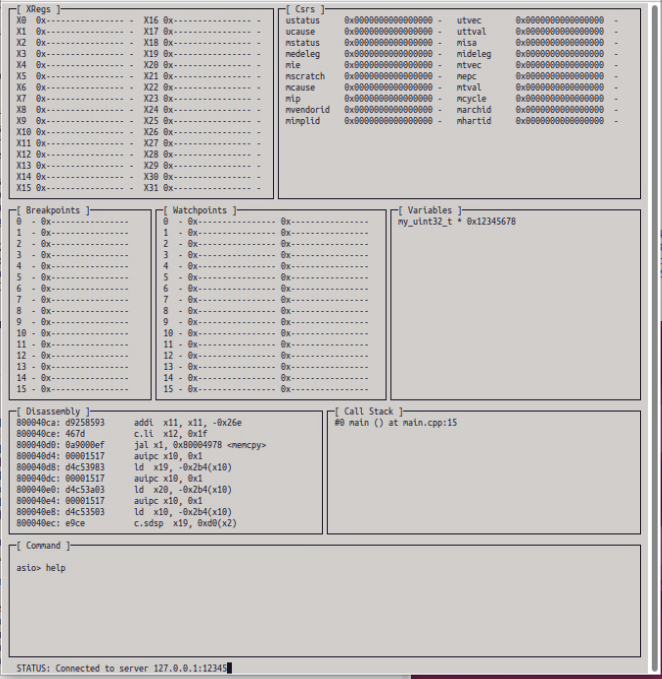
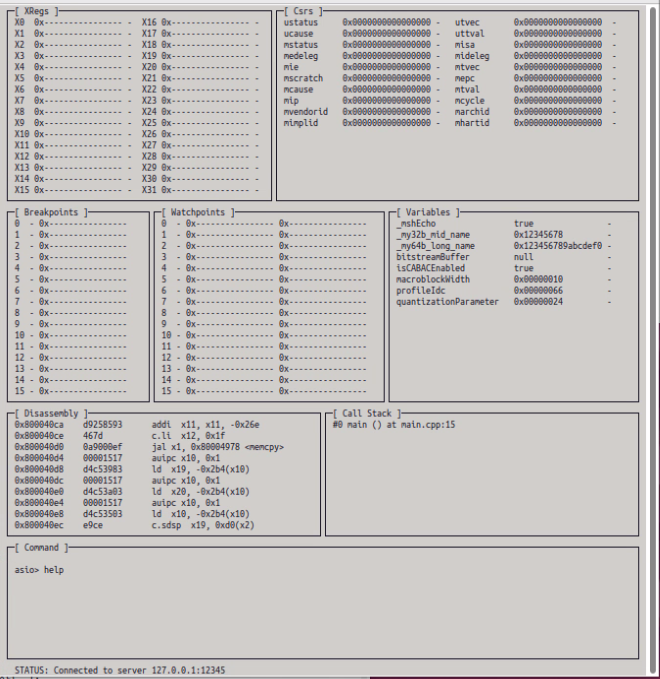
variables and disassembly windows structure

Changed region(s): [[0.0, 0.0, 1.0, 1.0]]

diff --git a/ncurses/src/content.cpp b/ncurses/src/content.cpp
@@ -1,5 +1,10 @@
+// -------------------------------------------------------------------------
+//  This file is part of jnutils, made public 2023, (c) 2023-2024 Jeff Nye.
+//  See LICENSE in the root directory.
+// -------------------------------------------------------------------------
 #include "jndbg.h"
 #include <iostream>
+#include <iomanip>
 
 using namespace std;
 // ------------------------------------------------------------------------
@@ -76,60 +81,20 @@ void Jndbg::drawWatchpointContent() {
 }
 
 // ------------------------------------------------------------------------
-// ------------------------------------------------------------------------
 void Jndbg::drawVariablesContent() {
+  if(is_init) {
     wclear(vars_win);
     drawBorders(vars_win, "Variables");
-    mvwprintw(vars_win, 1, 2, "my_uint32_t * 0x12345678");
-    // Add more variables...
-    wrefresh(vars_win);
-}
+  }
 
-const vector<string> Jndbg::example_disasm = {
-"800040ca: d9258593      addi  x11, x11, -0x26e",
-"800040ce: 467d          c.li  x12, 0x1f",
-"800040d0: 0a9000ef      jal x1, 0x80004978 <memcpy>",
-"800040d4: 00001517      auipc x10, 0x1",
-"800040d8: d4c53983      ld  x19, -0x2b4(x10)",
-"800040dc: 00001517      auipc x10, 0x1",
-"800040e0: d4c53a03      ld  x20, -0x2b4(x10)",
-"800040e4: 00001517      auipc x10, 0x1",
-"800040e8: d4c53503      ld  x10, -0x2b4(x10)",
-"800040ec: e9ce          c.sdsp  x19, 0xd0(x2)",
-"800040ee: edd2          c.sdsp  x20, 0xd8(x2)",
-"800040f0: f1aa          c.sdsp  x10, 0xe0(x2)",
-"800040f2: 49525537      lui x10, 0x49525",
-"800040f6: 45350a93      addi  x21, x10, 0x453",
-"800040fa: d5d6          c.swsp  x21, 0xe8(x2)",
-"800040fc: 6511          c.lui x10, 0x4",
-"800040fe: 74e50c13      addi  x24, x10, 0x74e",
-"80004102: 0f811623      sh  x24, 0xec(x2)",
-"80004106: 0e010723      sb  x0, 0xee(x2)",
-"8000410a: 00002517      auipc x10, 0x2",
-"8000410e: 45a9          c.li  x11, 0xa",
-"80004110: 94b52523      sw  x11, -0x6b6(x10)",
-"80004114: 00001517      auipc x10, 0x1",
-"80004118: 26a50413      addi  x8, x10, 0x26a",
-"8000411c: 8522          c.mv  x10, x8",
-"8000411e: 38d000ef      jal x1, 0x80004caa <CONDOR_PRINTF>",
-"80004122: 00001517      auipc x10, 0x1",
-"80004126: d7450513      addi  x10, x10, -0x28c",
-"8000412a: 381000ef      jal x1, 0x80004caa <CONDOR_PRINTF>",
-"8000412e: 8522          c.mv  x10, x8",
-"80004130: 37b000ef      jal x1, 0x80004caa <CONDOR_PRINTF>",
-"80004134: d901a503      lw  x10, -0x270(x3)",
-"80004138: c511          c.beqz  x10, 0x80004144 <main+0xba>",
-"8000413a: 00001517      auipc x10, 0x1",
-"8000413e: d8c50513      addi  x10, x10, -0x274",
-"80004142: a029          c.j 0x8000414c <main+0xc2>",
-"80004144: 00001517      auipc x10, 0x1",
-"80004148: dae50513      addi  x10, x10, -0x252",
-"8000414c: 35f000ef      jal x1, 0x80004caa <CONDOR_PRINTF>",
-"80004150: 8522          c.mv  x10, x8",
-"80004152: 359000ef      jal x1, 0x80004caa <CONDOR_PRINTF>",
-"80004156: 00001517      auipc x10, 0x1",
-"8000415a: dcb50513      addi  x10, x10, -0x235"
-};
+  for(auto &[key,fi] : variables) {
+    mvwprintw(vars_win, fi.label_y,  fi.label_x, "%s", fi.label.c_str());
+    mvwprintw(vars_win, fi.active_y, fi.active_x,"%s", fi.active.c_str());
+    mvwprintw(vars_win, fi.data_y,   fi.data_x,  "%s", fi.data.c_str());
+  }
+
+  wrefresh(vars_win);
+}
 
 // ------------------------------------------------------------------------
 // ------------------------------------------------------------------------
@@ -139,14 +104,15 @@ void Jndbg::drawDisassemblyContent() {
     drawBorders(dis_win, "Disassembly");
   }
 
-  uint32_t xpos = DisasmblyFieldInfo::DIS_x;
-
-  for(size_t i=0;i<10;++i) {
-    uint32_t ypos = DisasmblyFieldInfo::DIS_y+i;
-    mvwprintw(dis_win,ypos, xpos,"%s", example_disasm[i].c_str());
+  for(auto &[key,fi] : disassembly) {
+    stringstream ss;
+    ss << setw(8)<<hex<<fi.label;
+    string label = "0x"+ss.str();
+    mvwprintw(dis_win,fi.label_y, fi.label_x, "%s", label.c_str());
+    mvwprintw(dis_win,fi.data_y,  fi.data_x,  "%s", fi.data.c_str());
   }
-    // Add more disassembly...
-    wrefresh(dis_win);
+
+  wrefresh(dis_win);
 }
 
 void Jndbg::drawCallStackContent() {

diff --git a/ncurses/src/fields.cpp b/ncurses/src/fields.cpp
@@ -1,3 +1,7 @@
+// -------------------------------------------------------------------------
+//  This file is part of jnutils, made public 2023, (c) 2023-2024 Jeff Nye.
+//  See LICENSE in the root directory.
+// -------------------------------------------------------------------------
 #include "jndbg.h"
 #include <vector>
 
@@ -159,15 +163,78 @@ void Jndbg::initWatchpointFields()
 }
 
 // -------------------------------------------------------------------
+const map<string,pair<string,string> > Jndbg::example_variables = {
+  { "_mshEcho",              { "bool",     "true"               } },
+  { "_my64b_long_name",      { "uint64_t", "0x123456789abcdef0" } },
+  { "_my32b_mid_name",       { "uint32_t", "0x12345678"         } },
+  { "bitstreamBuffer",       { "uint8_t",  "null"               } },
+  { "macroblockWidth",       { "int32_t",  "0x00000010"         } },
+  { "quantizationParameter", { "int32_t",  "0x00000024"         } },
+  { "profileIdc",            { "int32_t",  "0x00000066"         } },
+  { "isCABACEnabled",        { "bool",     "true"               } }
+};
+// -------------------------------------------------------------------
 // -------------------------------------------------------------------
 void Jndbg::initVariablesFields()
 {
+  uint32_t ypos = VariablesFieldInfo::Var_y;
+
+  for(auto &[key,val] : example_variables) {
+
+    size_t size = 32;
+
+    if(val.first == "uint8_t" || val.first == "int8_t") {
+      size = 8;
+    } else if(val.first == "uint64_t" || val.first == "int64_t") {
+      size = 64;
+    } else if(val.first == "uint128_t" || val.first == "int128_t") {
+      size = 128;
+    } else if(val.first == "double") {
+      size = 64;
+    }
+
+    VariablesFieldInfo fi(size, false, false,
+                          key, //label
+                          val.first, //type
+                          val.second, //data
+                          "-", //active
+                          VariablesFieldInfo::VAR_0_Lbl_x,ypos,
+                          VariablesFieldInfo::VAR_0_Typ_x,ypos,
+                          VariablesFieldInfo::VAR_0_Dat_x,ypos,
+                          VariablesFieldInfo::VAR_0_Act_x,ypos);
+    variables.insert(make_pair(ypos,fi));
+    ++ypos;
+  
+  }
 }
+
+// -------------------------------------------------------------------
+const map<uint32_t,string> Jndbg::example_disassembly = {
+{ 0x800040ca,"d9258593      addi  x11, x11, -0x26e" },
+{ 0x800040ce,"467d          c.li  x12, 0x1f" },
+{ 0x800040d0,"0a9000ef      jal x1, 0x80004978 <memcpy>" },
+{ 0x800040d4,"00001517      auipc x10, 0x1" },
+{ 0x800040d8,"d4c53983      ld  x19, -0x2b4(x10)" },
+{ 0x800040dc,"00001517      auipc x10, 0x1" },
+{ 0x800040e0,"d4c53a03      ld  x20, -0x2b4(x10)" },
+{ 0x800040e4,"00001517      auipc x10, 0x1" },
+{ 0x800040e8,"d4c53503      ld  x10, -0x2b4(x10)" },
+{ 0x800040ec,"e9ce          c.sdsp  x19, 0xd0(x2)" }
+};
 
 // -------------------------------------------------------------------
 // -------------------------------------------------------------------
 void Jndbg::initDisassemblyFields()
 {
+  uint32_t ypos = VariablesFieldInfo::Var_y;
+
+  for(auto &[key,val] : example_disassembly) {
+    DisassemblyFieldInfo fi(key,val,
+                            DisassemblyFieldInfo::DIS_Lbl_x,ypos,
+                            DisassemblyFieldInfo::DIS_Dat_x,ypos);
+    ++ypos;
+    disassembly.insert(make_pair(key,fi));
+  }
 }
 
 // -------------------------------------------------------------------

diff --git a/ncurses/inc/fieldinfo.h b/ncurses/inc/fieldinfo.h
@@ -1,3 +1,7 @@
+// -------------------------------------------------------------------------
+//  This file is part of jnutils, made public 2023, (c) 2023-2024 Jeff Nye.
+//  See LICENSE in the root directory.
+// -------------------------------------------------------------------------
 #pragma once
 #include <cstdint>
 #include <string>
@@ -242,10 +246,77 @@ struct WatchPointFieldInfo : public BreakPointFieldInfo
 
 struct VariablesFieldInfo : public FieldInfo
 {
+  VariablesFieldInfo(size_t _size,
+                     bool _is_uninit,
+                     bool _is_active,
+                     std::string _label,
+                     std::string _type,
+                     std::string _data,
+                     std::string _active,
+                     uint32_t _label_x,
+                     uint32_t _label_y,
+                     uint32_t _type_x,
+                     uint32_t _type_y,
+                     uint32_t _data_x,
+                     uint32_t _data_y,
+                     uint32_t _active_x,
+                     uint32_t _active_y)
+    : FieldInfo(_size,
+                _is_uninit,
+                _is_active,
+                _label,
+                _data,
+                _active,
+                _label_x,
+                _label_y,
+                _data_x,
+                _data_y,
+                _active_x,
+                _active_y),
+      type(_type),
+      type_x(_type_x),
+      type_y(_type_y)
+  {}
+
+  std::string type;
+  uint32_t type_x;
+  uint32_t type_y;
+
+  static constexpr uint32_t Var_y = 1;
+
+  static constexpr uint32_t VAR_0_Lbl_x = 2;
+  static constexpr uint32_t VAR_0_Typ_x = 5;
+  static constexpr uint32_t VAR_0_Dat_x = 26;
+  static constexpr uint32_t VAR_0_Act_x = 45;
+ 
 };
 
-struct DisasmblyFieldInfo : public FieldInfo
+struct DisassemblyFieldInfo 
 {
+  DisassemblyFieldInfo(uint32_t _pc,
+                     std::string _data,
+                     uint32_t _label_x,
+                     uint32_t _label_y,
+                     uint32_t _data_x,
+                     uint32_t _data_y)
+    : label  (_pc),
+      data   (_data),
+      label_x(_label_x),
+      label_y(_label_y),
+      data_x (_data_x),
+      data_y (_data_y)
+  {}
+
+  uint32_t label;
+  std::string data;
+
+  uint32_t label_x;
+  uint32_t label_y;
+
+  uint32_t data_x;
+  uint32_t data_y;
+
   static constexpr uint32_t DIS_y = 1;
-  static constexpr uint32_t DIS_x = 2;
+  static constexpr uint32_t DIS_Lbl_x = 2;
+  static constexpr uint32_t DIS_Dat_x = 16;
 };

diff --git a/ncurses/inc/jndbg.h b/ncurses/inc/jndbg.h
@@ -1,3 +1,7 @@
+// -------------------------------------------------------------------------
+//  This file is part of jnutils, made public 2023, (c) 2023-2024 Jeff Nye.
+//  See LICENSE in the root directory.
+// -------------------------------------------------------------------------
 #pragma once
 #include "fieldinfo.h"
 
@@ -5,43 +9,6 @@
 #include <string>
 #include <vector>
 #include <map>
-
-//struct FieldInfo {
-//  FieldInfo(size_t s=64) 
-//    : is_uninit(true),
-//      is_inactive(true),
-//      size(s),
-//      label("???"),
-//      data(size == 32 ? uninit32 : uninit64),
-//      active(inactive)
-//  {}
-//
-//  bool is_uninit;
-//  bool is_inactive;
-//
-//  size_t size;
-//  std::string label;
-//  std::string data;
-//  std::string active;
-//
-//  static constexpr std::string uninit64{"0x----------------"};
-//  static constexpr std::string uninit32{"0x--------"};
-//  static constexpr std::string inactive{"-"};
-//
-//};
-//
-//struct XregFieldInfo : public FieldInfo
-//{
-//  XregFieldInfo() : FieldInfo() {}
-//  uint32_t label_x;
-//  uint32_t label_y;
-//  uint32_t data_x;
-//  uint32_t data_y;
-//  uint32_t active_x;
-//  uint32_t active_y;
-//  std::string active;
-//};
-
 
 struct Jndbg
 {
@@ -96,12 +63,16 @@ private:
 
   bool is_init{false};
 
-  std::map<std::string,XregFieldInfo>       xregs;
-  std::map<std::string,CsrFieldInfo>        csrs;
-  std::map<uint32_t,BreakPointFieldInfo> breakpoints;
-  std::map<uint32_t,WatchPointFieldInfo> watchpoints;
+  std::map<std::string,XregFieldInfo>     xregs;
+  std::map<std::string,CsrFieldInfo>      csrs;
+  std::map<uint32_t,BreakPointFieldInfo>  breakpoints;
+  std::map<uint32_t,WatchPointFieldInfo>  watchpoints;
+  std::map<uint32_t,VariablesFieldInfo>   variables;
+  std::map<uint32_t,DisassemblyFieldInfo> disassembly;
 
-  static const std::vector<std::string> example_disasm;
+  static const std::map<uint32_t,std::string> example_disassembly;
+  static const std::map<std::string,std::pair<std::string,std::string> >
+                                                             example_variables;
 
   static constexpr uint32_t XREGS_W_x = 1;
   static constexpr uint32_t XREGS_W_y = 0;

diff --git a/ncurses/src/jndbg.cpp b/ncurses/src/jndbg.cpp
@@ -1,3 +1,7 @@
+// -------------------------------------------------------------------------
+//  This file is part of jnutils, made public 2023, (c) 2023-2024 Jeff Nye.
+//  See LICENSE in the root directory.
+// -------------------------------------------------------------------------
 #include "jndbg.h"
 #include <iostream>
 

diff --git a/ncurses/src/main.cpp b/ncurses/src/main.cpp
@@ -1,3 +1,7 @@
+// -------------------------------------------------------------------------
+//  This file is part of jnutils, made public 2023, (c) 2023-2024 Jeff Nye.
+//  See LICENSE in the root directory.
+// -------------------------------------------------------------------------
 #include "jndbg.h"
 
 int main() {
